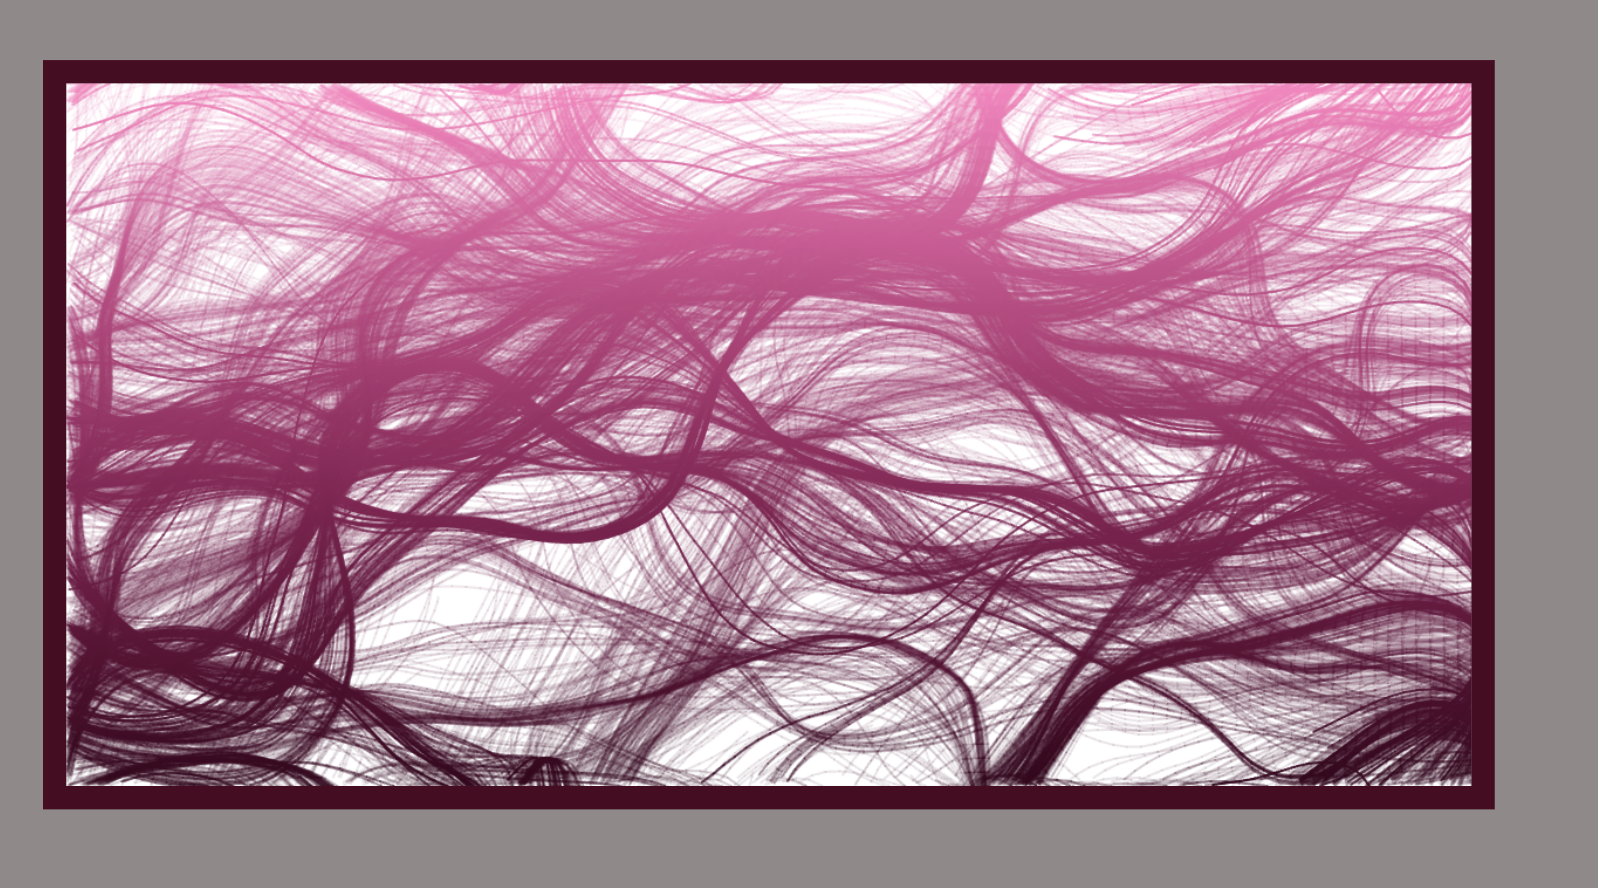
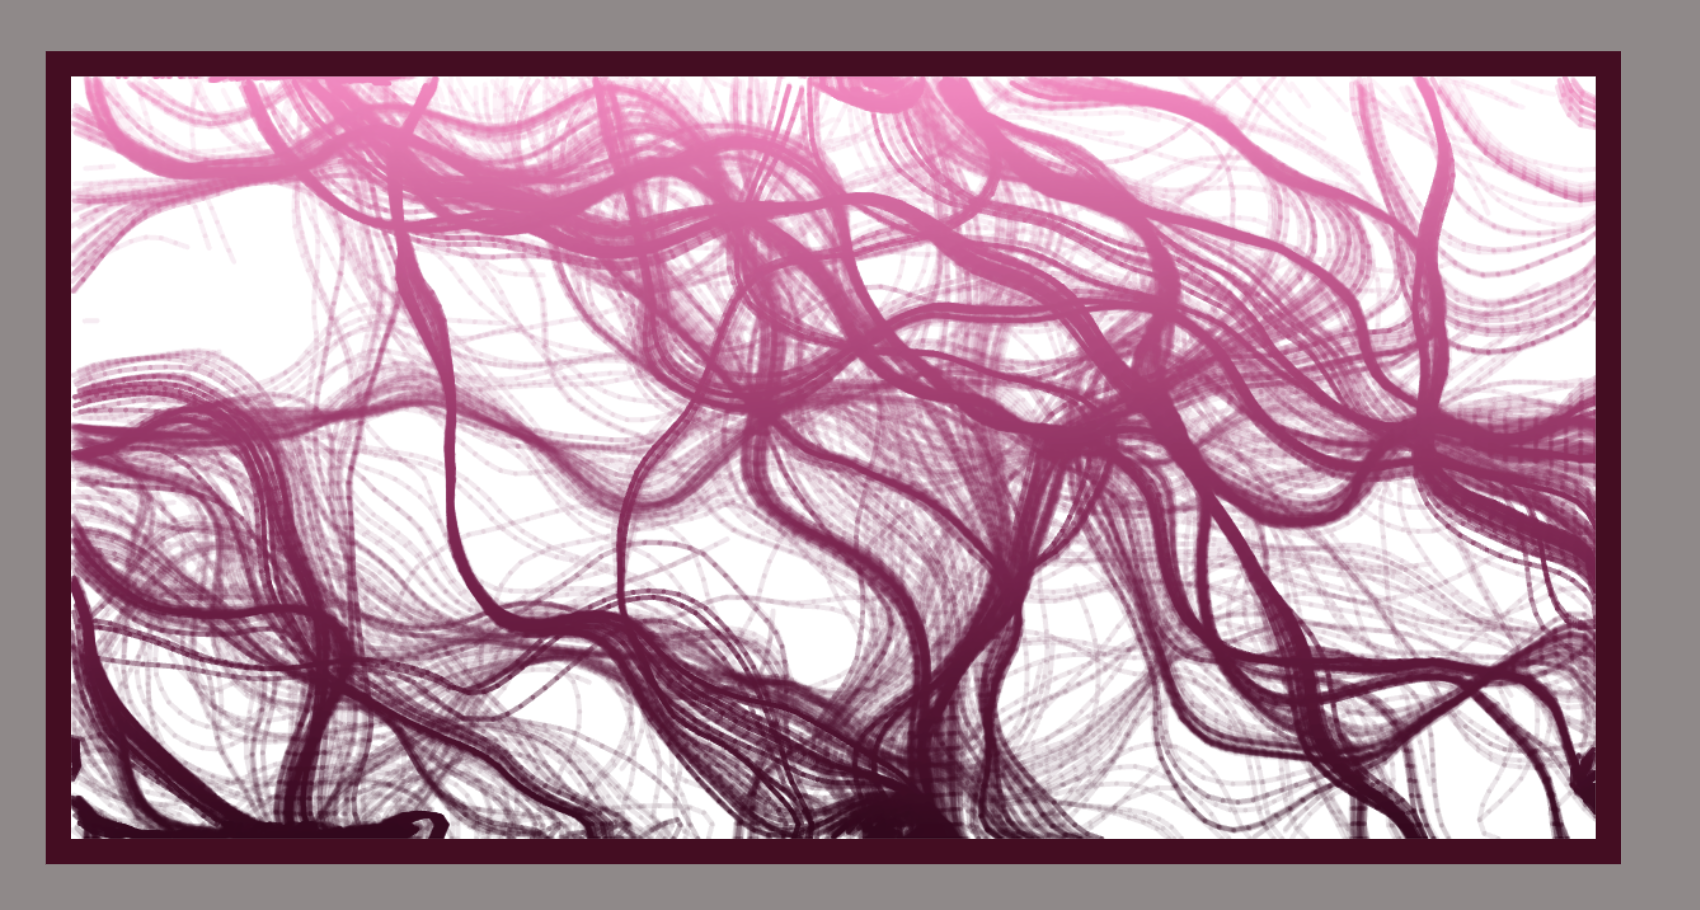
new flow pic

diff --git a/particle_flow/sketch.js b/particle_flow/sketch.js
@@ -14,7 +14,7 @@ function setup(){
     rows = floor(height / scl);
 
     flowfield = new Array(cols * rows);
-    for (let i = 0; i < 500 /*play with*/; i++){
+    for (let i = 0; i < 200 /*play with*/; i++){
         particles.push(new Particle()); 
     }
     background(255);
@@ -28,7 +28,7 @@ function draw()
         var x_off = 0;
         for (var x = 0; x < cols; x++){
             var index = x + y * cols;
-            var angle  = noise(x_off, y_off, z_off) * TWO_PI; //play with - multiply 2pi by a const
+            var angle  = noise(x_off, y_off, z_off) * TWO_PI * 1.3; //play with - multiply 2pi by a const
             var v = p5.Vector.fromAngle(angle);
             v.setMag(2); //play with
             flowfield[index] = v;

diff --git a/particle_flow/particle.js b/particle_flow/particle.js
@@ -41,7 +41,7 @@ class Particle{
             let sat = map(this.pos.y, 0, height, 50, 100);
 
             let bright = map(this.pos.y, 0, height, 100, 20);
-            strokeWeight(1);
+            strokeWeight(2);
             stroke(hueValue, sat, bright, 0.1);
             line(this.pos.x, this.pos.y, this.previous_pos.x, this.previous_pos.y);
             this.updatePrevious(); 
